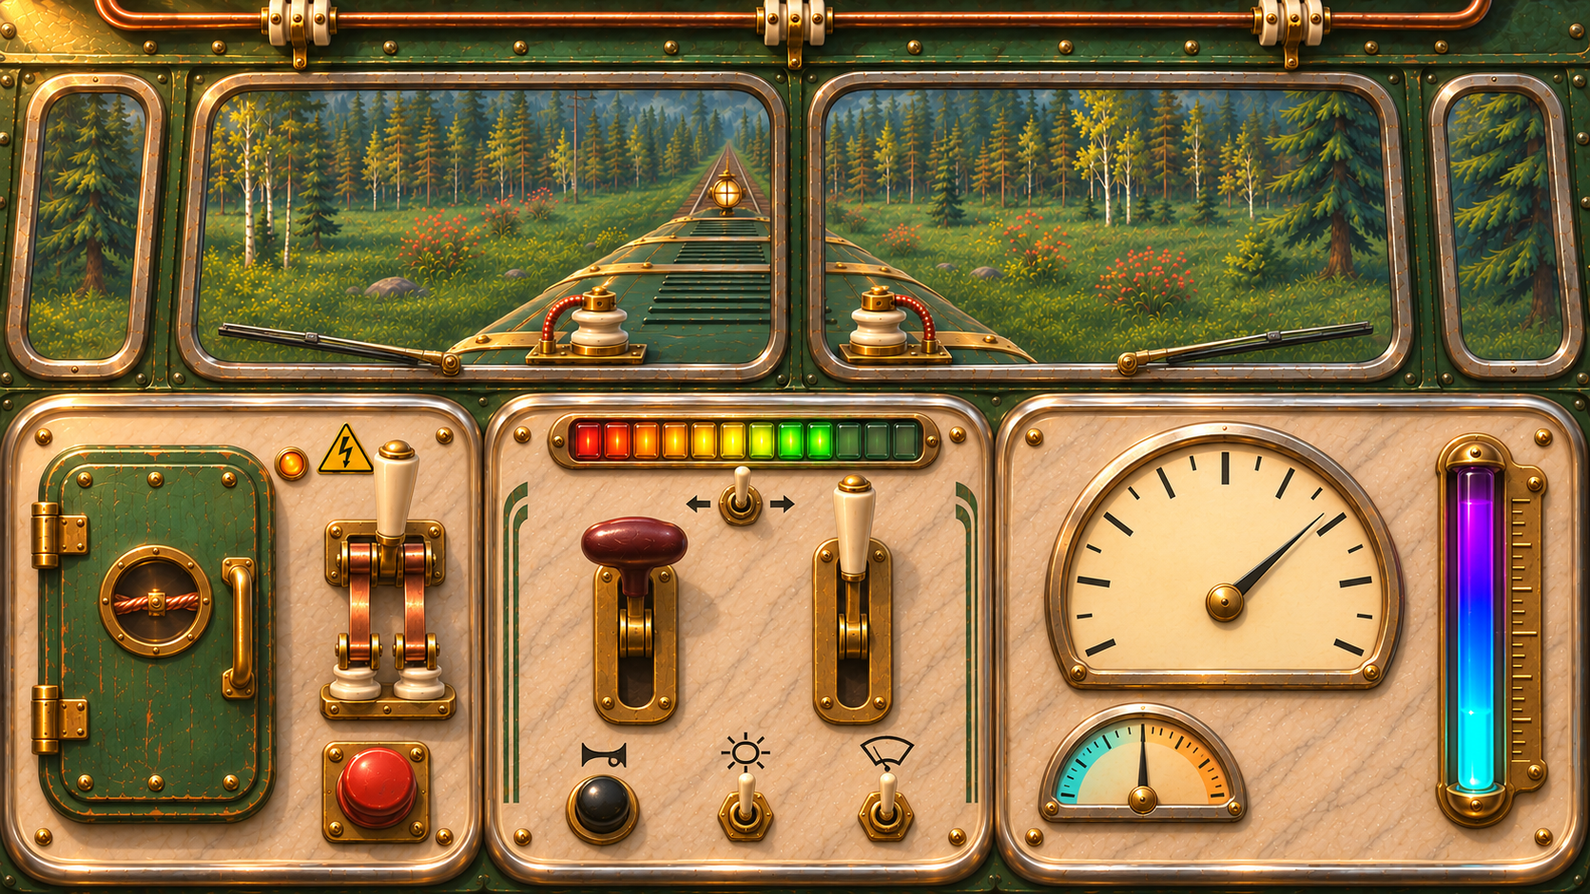
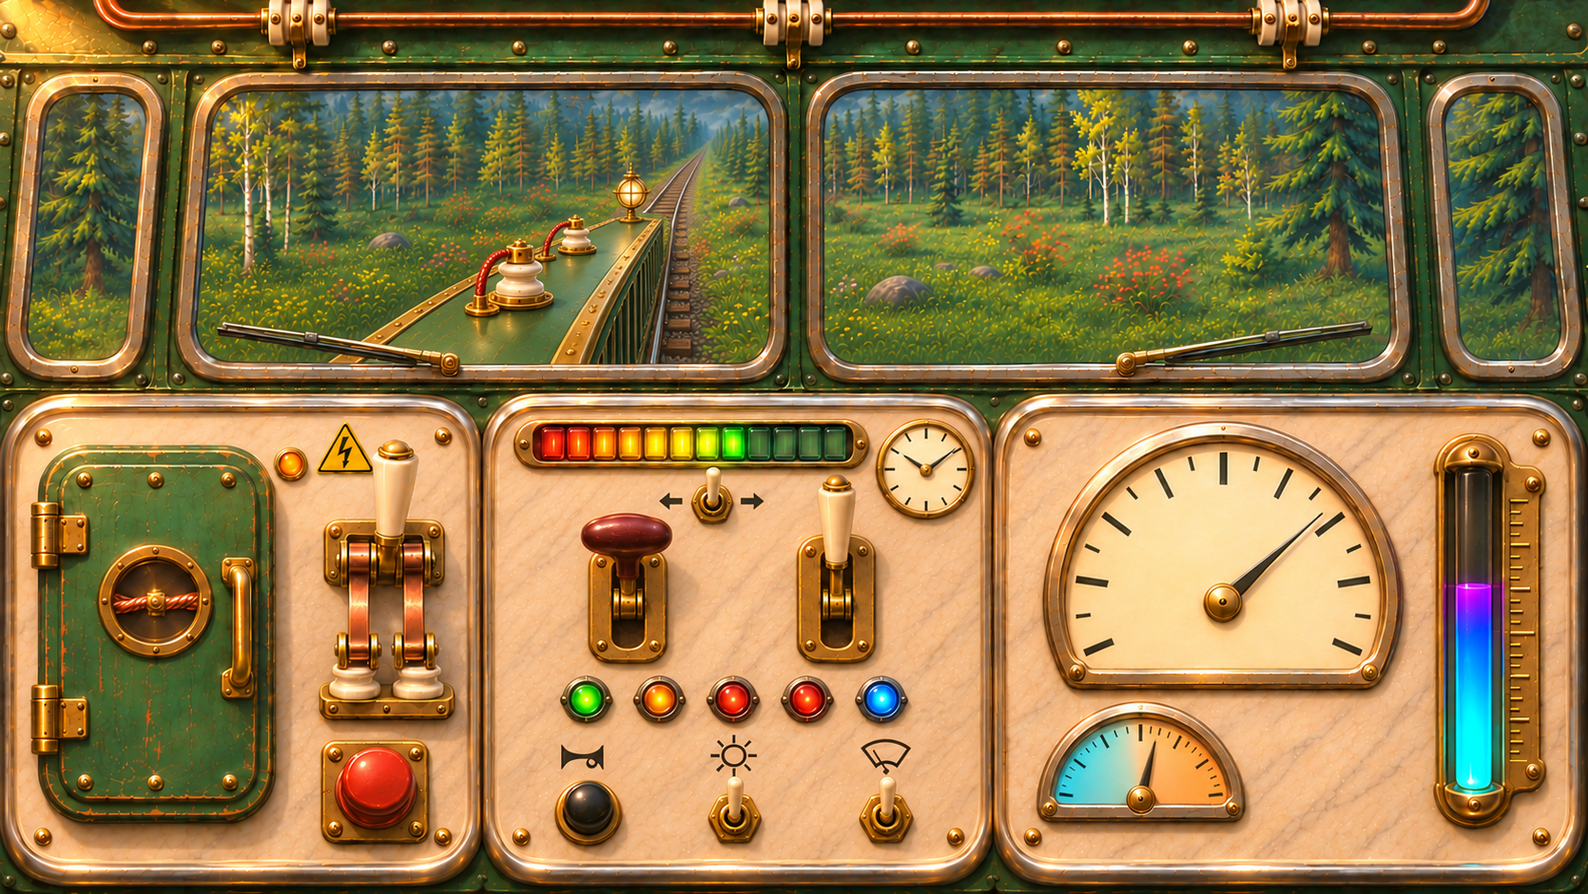
Заказы GPT: П34 (детали кабины электровоза по эскизу 6), П33 дополнен огрызком провода
Владелец 19.11 выбрал «Подстанцию», эскиз 6 (исправленный): П32 закрыт, детали для игры —
П34 (рама с окнами, пустая доска, капот, ручки и тумблеры, циферблаты без стрелок, дверца
шкафчика с пустым окошком, аварийная кнопка, табличка). П33: огрызок провода для «жучка»,
образец стиля — исправленный эскиз. Планы: 1.12 с номерами заказов.

diff --git a/tools/art_sources/briefs/P34_electric_cab_parts/TASK_FOR_GPT.md b/tools/art_sources/briefs/P34_electric_cab_parts/TASK_FOR_GPT.md
@@ -1,0 +1,64 @@
+# ЗАДАНИЕ GPT: пакет П34 (детали кабины электровоза для игры)
+
+Зачем: владелец 19.11 выбрал кабину электровоза **«Подстанция», эскиз 6** (твой `electric_cab_concept_6_simple_v2.png`, копия здесь как `ref_chosen_cab.png`). Теперь её нужно разобрать на детали, из которых игра соберёт живую кабину. Стрелки, столбик термометра, свет ламп, деления полоски заряда, искры и вид за окнами двигает и рисует сама игра.
+
+**Всё рисуй точно как на `ref_chosen_cab.png`:** те же материалы, цвета, свет и манера:
+- белый мрамор с прожилками;
+- никелевые скруглённые рамки;
+- тёмно-зелёная клёпаная сталь;
+- медь и фарфор;
+- латунь.
+
+Правила (как в П31, полностью в `tools/art_sources/inbox/GPT_INSTRUCTIONS.txt`):
+- никаких букв и цифр; на шкалах только риски, на пиктограммах только рисунок;
+- фон и проёмы окон ровный #FF00FF;
+- в листах сетка с равными ячейками, один предмет в ячейке, один масштаб, поля не меньше 8%, без линий сетки;
+- предметы вид строго спереди, без наклона;
+- без стрелок у приборов, без света ламп и без свечения: это сделает игра.
+
+Имена файлов точно как в заголовках, клади в `tools/art_sources/inbox/P34_electric_cab_parts/`. В конце перечисли слабые.
+
+### electric_window_wall.png (2172×724)
+Верхняя часть кабины, как на эскизе.
+- Зелёная клёпаная стена.
+- **Четыре проёма окон в никелевых рамках, залитые #FF00FF:** два узких боковых у самых краёв и два больших лобовых посередине, между ними одна стойка.
+- По верхней балке медные провода на фарфоровых изоляторах.
+- Дворники НЕ рисуй: их нарисует игра.
+
+Размер холста и место проёмов примерно как у `ref_wall_canvas_size.png` (это стена паровоза, только для размеров, её вид не повторяй).
+
+### electric_board.png (2172×724)
+Нижняя часть кабины: три пустые мраморные панели в никелевых рамках на зелёной стали, как на эскизе. Стойки между панелями примерно на 32% и 66% ширины, как у `ref_board_canvas_size.png`. Панели **совсем пустые**: без приборов, ручек, ламп, дверцы и рубильника.
+
+### electric_hood_forward.png (3:2, 1536×1024)
+Капот электровоза, вид из кабины вперёд, как на эскизе:
+- зелёная сталь, жалюзи по бокам;
+- на крыше фарфоровые изоляторы с медными петлями;
+- на дальнем конце латунный фонарь, стекло тёмное.
+
+Нарисуй капот **по центру** холста и симметрично: на место игра поставит его сама. Широкий ближний край упирается в нижний край картинки. Над капотом и по бокам #FF00FF. Перспектива как у `ref_forward_view_size.png`.
+
+### electric_controls.png (лист 4×2, ячейки 1:1)
+1. Ручка тормоза — бордовый грибок на латунной шейке с язычком для прорези.
+2. Ручка тяги — фарфоровая рукоять на латунной шейке с язычком.
+3. Латунный щиток с прямой вертикальной прорезью, пустой (по нему ходят обе ручки).
+4. Тумблер направления на латунной гайке, рычажок влево.
+5. Тот же тумблер, рычажок вправо.
+6. Кнопка гудка: чёрная в латунном воротнике.
+7. Тумблер фары или дворников: фарфоровый рычажок вниз.
+8. Тот же тумблер, рычажок вверх.
+
+### electric_instruments.png (лист 3×2, ячейки 1:1)
+1. Спидометр: кремовый полукруглый циферблат с рисками в никелевой рамке, **без стрелки**.
+2. Амперметр: малый полукруглый, слева голубая часть шкалы, справа оранжевая, ноль посередине, **без стрелки**.
+3. Термометр: вертикальная стеклянная трубка в латунной оправе со шкалой рисок, **трубка пустая и тёмная**.
+4. Корпус полоски заряда: латунная рамка с 12 тёмными стеклянными делениями, **не светятся**.
+5. Часы: кремовый циферблат в латунном ободке, **без стрелок**.
+6. Гнездо сигнальной лампы: латунный ободок с тёмным стеклом, не светится (игра повторит его 5 раз и раскрасит).
+
+### electric_power_parts.png (лист 3×1, ячейки 1:1)
+1. Дверца шкафчика закрытая: зелёная клёпаная, петли слева, ручка справа, в середине круглое окошко в латунной оправе. **За стеклом окошка пусто, #FF00FF**: игра покажет там провода.
+2. Аварийная кнопка: красный грибок в латунной оправе.
+3. Табличка с молнией: жёлтый треугольник в латунной окантовке.
+
+Рубильник, предохранители и внутренность шкафчика заказаны отдельно, в П33.

diff --git a/tools/art_sources/ART_QUEUE.md b/tools/art_sources/ART_QUEUE.md
@@ -49,7 +49,8 @@ Never draw letters, numbers or readable text on the images. Never draw the card 
 | P27 | The counter of Mikhalych in the casino (owner: hide him behind a counter so the missing legs are not seen): one front view of a wooden counter with a finished right end, on magenta | DONE (accepted 16.11; connected: the counter in front of Mikhalych) | tools/art_sources/briefs/P27_kazik_counter/TASK_FOR_GPT.md | tools/art_sources/inbox/P27_kazik_counter/ |
 | P28 | Petrol car ignition, realistic (owner 16.11): a lock set into the dashboard seen from the front, the key BOW seen head-on (rotates about the keyhole), a key ring with a second key and a tag, the choke knob in and out; one scale | DONE (accepted 16.11: the lock panel and the choke are used; the key bow is replaced by P29) | tools/art_sources/briefs/P28_ignition_real/TASK_FOR_GPT.md | tools/art_sources/inbox/P28_ignition_real/ |
 | P29 | The ignition key seen ALONG its axis (owner's sketch): a thin vertical bow edge-on over the keyhole, 3 turns 0/35/65° with fixed light; and the key ring hanging from it | DONE (accepted 16.11; connected in 1.3.0.0-B5: the key edge-on in the lock) | tools/art_sources/briefs/P29_key_end_on/TASK_FOR_GPT.md | tools/art_sources/inbox/P29_key_end_on/ |
-| P33 | The electric locomotive's cabinet in the «Substation» style (owner 19.11, docs/ELECTRIC_CABINET_MECHANIC_RU.md): the inside of the cabinet (marble back plate, 5+5 brass terminals, an empty lamp socket, three empty porcelain fuse holders, a spare-box socket), the knife switch up and down, three fuse states drawn LEVEL (whole, burnt, a home-made wire «bug»), the spare-fuse tin closed and open; NO wires, sparks, glow or text | waiting for GPT | tools/art_sources/briefs/P33_electric_cabinet/TASK_FOR_GPT.md | tools/art_sources/inbox/P33_electric_cabinet/ |
-| P32 | STAGE 1: three complete concept paintings of the electric locomotive's own cab, so the owner can choose a style (owner 19.11: every cab must be unique; he likes «Substation» most but wants to see all three): 1 «Substation» (white marble switchboard, copper, porcelain insulators, neon gas-tube thermometer), 2 «Art deco» (1930s metro: cream enamel, chrome, round tram controller, glowing digit tubes), 3 «Laboratory» (blued steel, copper coil, green oscilloscope, radio-valve thermometer); the driver's view 16:9 like the approved steam cab, all existing controls on each, no letters or numbers; ready English prompts in PROMPTS_FOR_GPT.txt. Stage 2 (the game parts of the chosen style) comes later | DELIVERED 19.11.2026, Claude checks | tools/art_sources/briefs/P32_electric_cab/TASK_FOR_GPT.md | tools/art_sources/inbox/P32_electric_cab/ |
+| P34 | The game parts of the electric locomotive's cab, the owner's choice concept 6 v2 «Substation» (19.11): the window wall with 4 magenta openings and copper wire on porcelain insulators, the empty 3-panel marble board, the hood seen ahead (centred), a 4x2 sheet of handles, slot plate, toggles and horn button, a 3x2 sheet of instrument faces WITHOUT needles or light (speedometer, centre-zero ammeter, empty thermometer tube, dark 12-segment charge bar, clock, lamp socket), a 3x1 sheet of the cabinet door with an empty porthole, the emergency button and the lightning plate; exactly the look of ref_chosen_cab.png | waiting for GPT | tools/art_sources/briefs/P34_electric_cab_parts/TASK_FOR_GPT.md | tools/art_sources/inbox/P34_electric_cab_parts/ |
+| P33 | The electric locomotive's cabinet in the «Substation» style (owner 19.11, docs/ELECTRIC_CABINET_MECHANIC_RU.md): the inside of the cabinet (marble back plate, 5+5 brass terminals, an empty lamp socket, three empty porcelain fuse holders, a spare-box socket), the knife switch up and down, three fuse states drawn LEVEL (whole, burnt, a home-made wire «bug»), a scrap of wire for the «bug», the spare-fuse tin closed and open; NO wires, sparks, glow or text | waiting for GPT | tools/art_sources/briefs/P33_electric_cabinet/TASK_FOR_GPT.md | tools/art_sources/inbox/P33_electric_cabinet/ |
+| P32 | STAGE 1: three complete concept paintings of the electric locomotive's own cab, so the owner can choose a style (owner 19.11: every cab must be unique; he likes «Substation» most but wants to see all three): 1 «Substation» (white marble switchboard, copper, porcelain insulators, neon gas-tube thermometer), 2 «Art deco» (1930s metro: cream enamel, chrome, round tram controller, glowing digit tubes), 3 «Laboratory» (blued steel, copper coil, green oscilloscope, radio-valve thermometer); the driver's view 16:9 like the approved steam cab, all existing controls on each, no letters or numbers; ready English prompts in PROMPTS_FOR_GPT.txt. Stage 2 (the game parts of the chosen style) comes later | DONE (19.11: the owner chose concept 6 «Substation», its _v2 after the redo; stage 2 is pack P34) | tools/art_sources/briefs/P32_electric_cab/TASK_FOR_GPT.md | tools/art_sources/inbox/P32_electric_cab/ |
 | P31 | Matches for lighting the steam locomotive (owner 16.11, step 1.4.14): a closed matchbox, the same box with the drawer half out, the striker side big and level (the player strikes along it with the mouse), a 3x2 sheet of single matches lying level head right (fresh, damp with a darker head, broken in two, burnt, head rubbed off, a pinch of three); NO flame or sparks (the game draws them); same style and scale as P21 | DONE (accepted 17.11 by Claude: all 9 pictures cut into ForestRail/assets/art_cab/matches/; connected in step 1.4.14) | tools/art_sources/briefs/P31_matches/TASK_FOR_GPT.md | tools/art_sources/inbox/P31_matches/ |
 | STYLE-TEST | ONE card (Wheel of Fortune) in styles 2-7 for the owner to choose a style; style 1 (painting) already exists as card_10_wheel_of_fortune.png | DONE | tools/art_sources/briefs/P10_tarot_cards/STYLE_TEST_RU.md (use the English text blocks; send each as its own image) | tools/art_sources/inbox/P10_tarot_cards/styles/ (names style_2_origami.png, style_3_symbolism.png, style_4_minimal_geometry.png, style_5_artdeco.png, style_6_engraving.png, style_7_stained_glass.png) |

diff --git a/docs/PLAN_RAZRABOTKI_RU.md b/docs/PLAN_RAZRABOTKI_RU.md
@@ -219,12 +219,12 @@
 
 | Шаг | Что делаем | Размер | Кто |
 |---|---|---|---|
-| 1.12.1 | **Своя кабина:** рама, доска, капот, ручки по выбранному эскизу (П32 этап 2); раскладка «Питание / Управление / Приборы» уже в коде (`electric_cab.gd`), включится с картинками | M | GPT + Я |
+| 1.12.1 | **Своя кабина:** рама, доска, капот, ручки, циферблаты по выбранному эскизу 6 (заказ GPT П34, отправлен 19.11); раскладка «Питание / Управление / Приборы» уже в коде (`electric_cab.gd`), включится с картинками | M | GPT + Я |
 | 1.12.2 | **Пуск через шкафчик:** провода на верёвочной физике, свести концы, скрутить петлями (3 — тугая, 1–2 — слабая), порвать скрутку рывком, лампа ГОТОВ, рубильник вниз; до пуска приборы и полоска заряда мёртвые | L | Я |
 | 1.12.3 | **Предохранители при пуске:** ошибка сжигает 1, всего 3 попытки; третья искра сжигает мотор («габелла»), ремонт по цене класса | M | Я |
 | 1.12.4 | **Предохранители в пути:** горят от перегрева и тряски, сначала предупреждение; −15% тяги за каждый, заряд быстрее; без них — без защиты; запасные как спички | M | Я |
 | 1.12.5 | **Секретки, все пять** (владелец 19.11): жучок, золотая скрутка, радужный порядок, мягкий пуск, подмигнуть на спуске; намёки Михалыча | M | Я |
-| 1.12.6 | **Рисунки шкафчика** (П33): рубильник, патроны (целый, сгоревший, жучок), коробка запасных, внутренность шкафчика | S | GPT |
+| 1.12.6 | **Рисунки шкафчика** (П33, отправлен 19.11): рубильник, патроны (целый, сгоревший, жучок), огрызок провода для жучка, коробка запасных, внутренность шкафчика | S | GPT |
 | 1.12.7 | **Тесты:** скрутка и разрыв, три попытки и «габелла», перегрев и тряска, секреты, снимки окна | M | Я |
 
 ### 2.0 «Большая графика» (после всего геймплея)

diff --git a/tools/art_sources/briefs/P33_electric_cabinet/TASK_FOR_GPT.md b/tools/art_sources/briefs/P33_electric_cabinet/TASK_FOR_GPT.md
@@ -42,6 +42,9 @@
 2. Сгоревший: стекло изнутри закопчено чёрным, проволочка порвана.
 3. «Жучок»: держатель с пустыми зажимами, перетянутыми **кустарно** намотанным куском медной проволоки (видно, что это самодельная перемычка).
 
+### wire_scrap.png (3:1)
+Короткий обрывок медного провода в тёмно-красной оплётке: на одном конце оплётка содрана, медные жилы торчат веером, на другом конце медь скручена. Горизонтально. Это «огрызок», из которого хитрый игрок мотает «жучок»: он лежит в углу шкафчика, и игрок тащит его мышью.
+
 ### spare_box.png (лист 2×1, ячейки 1:1)
 Жестяная коробочка для запасных патронов с рисунком молнии на крышке.
 1. Закрытая.

diff --git a/docs/PLAN_PO_VERSIYAM_RU.md b/docs/PLAN_PO_VERSIYAM_RU.md
@@ -168,7 +168,8 @@
 - ⬜ В магазинной сборке меню закрыто; с читами рекорды не пишутся
 
 ### 1.12 «Электровоз: своя кабина и шкафчик» (твои решения 19.11)
-- ⬜ Своя кабина «Подстанция» по эскизу 6 (GPT доделывает эскиз)
+- ✅ Эскиз выбран: «Подстанция», эскиз 6 (исправленный)
+- ⬜ Своя кабина по эскизу: детали заказаны у GPT (П34), шкафчик тоже (П33)
 - ⬜ Пуск: провода с физикой, скрутка петлями, порвать рывком, лампа ГОТОВ, рубильник вниз
 - ⬜ Три предохранителя: ошибка при пуске сжигает один, три ошибки — мотор сгорел
 - ⬜ В пути горят от перегрева и тряски: −15% тяги за каждый; запасные как спички
